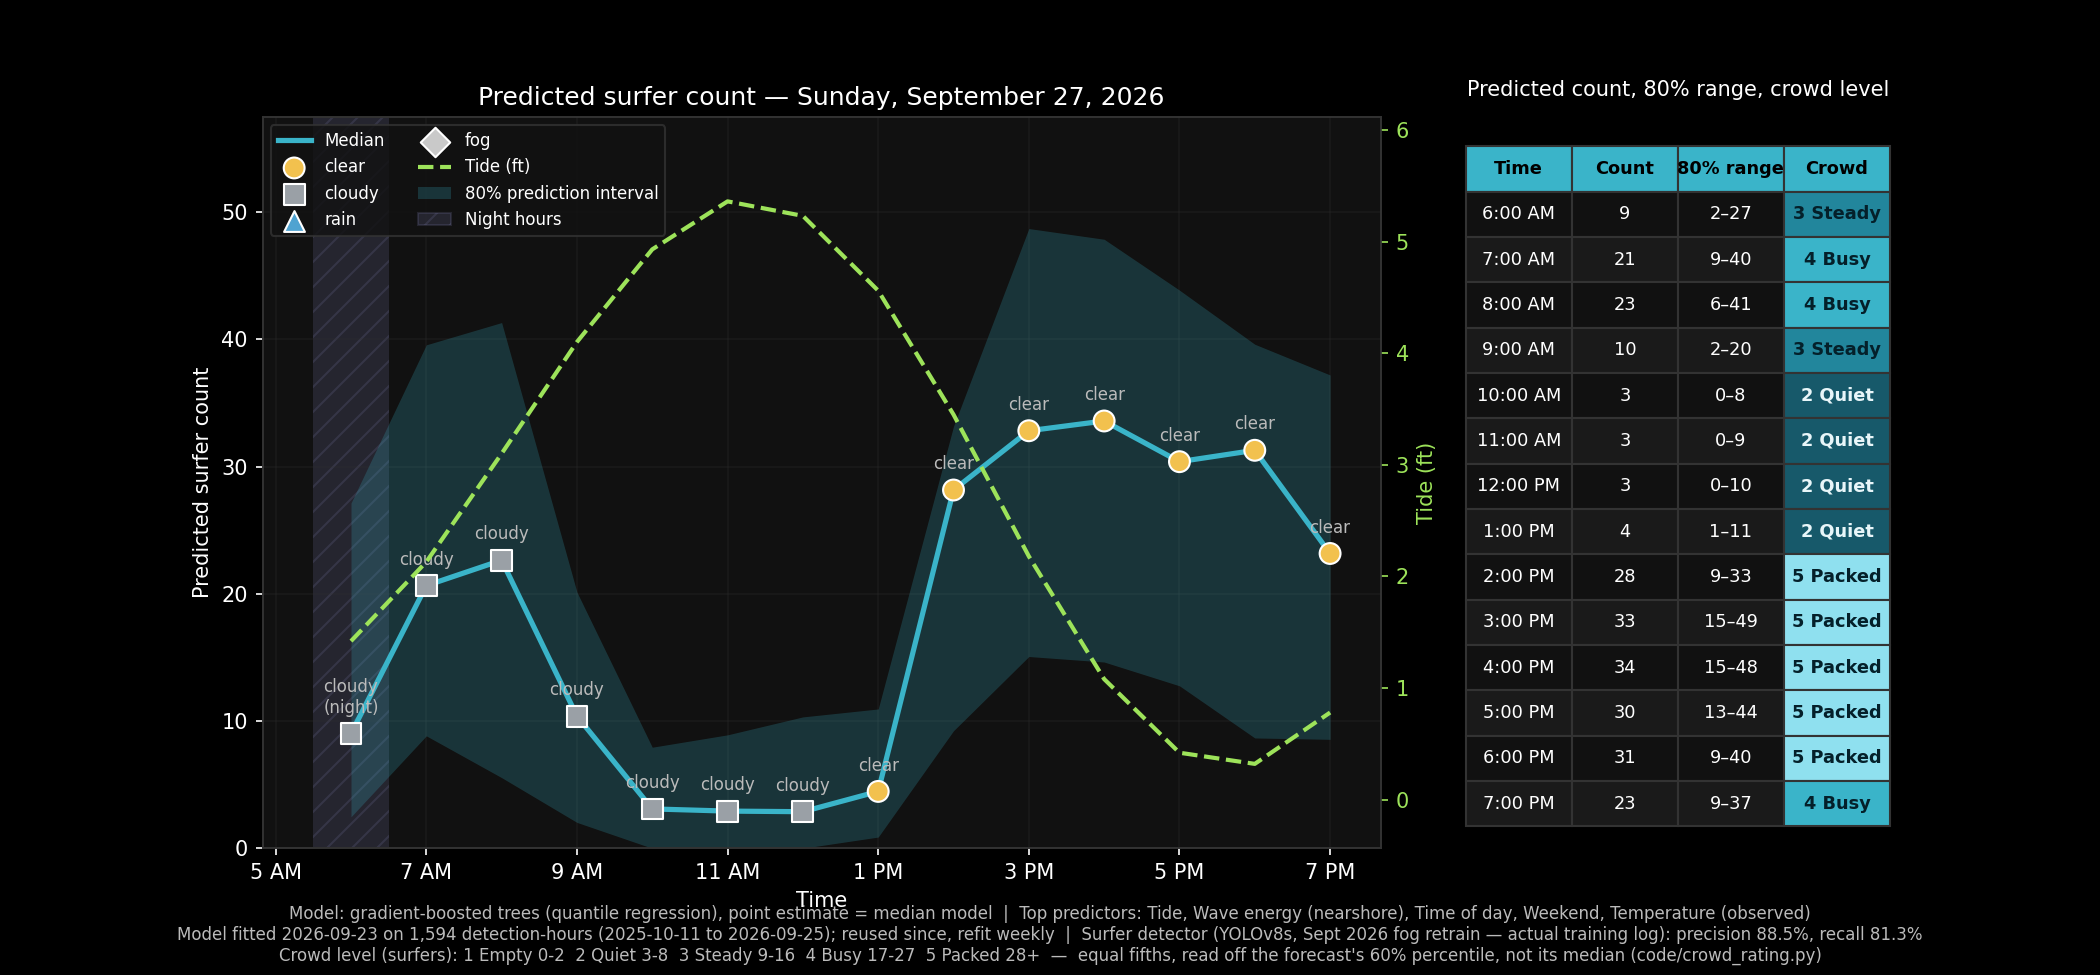
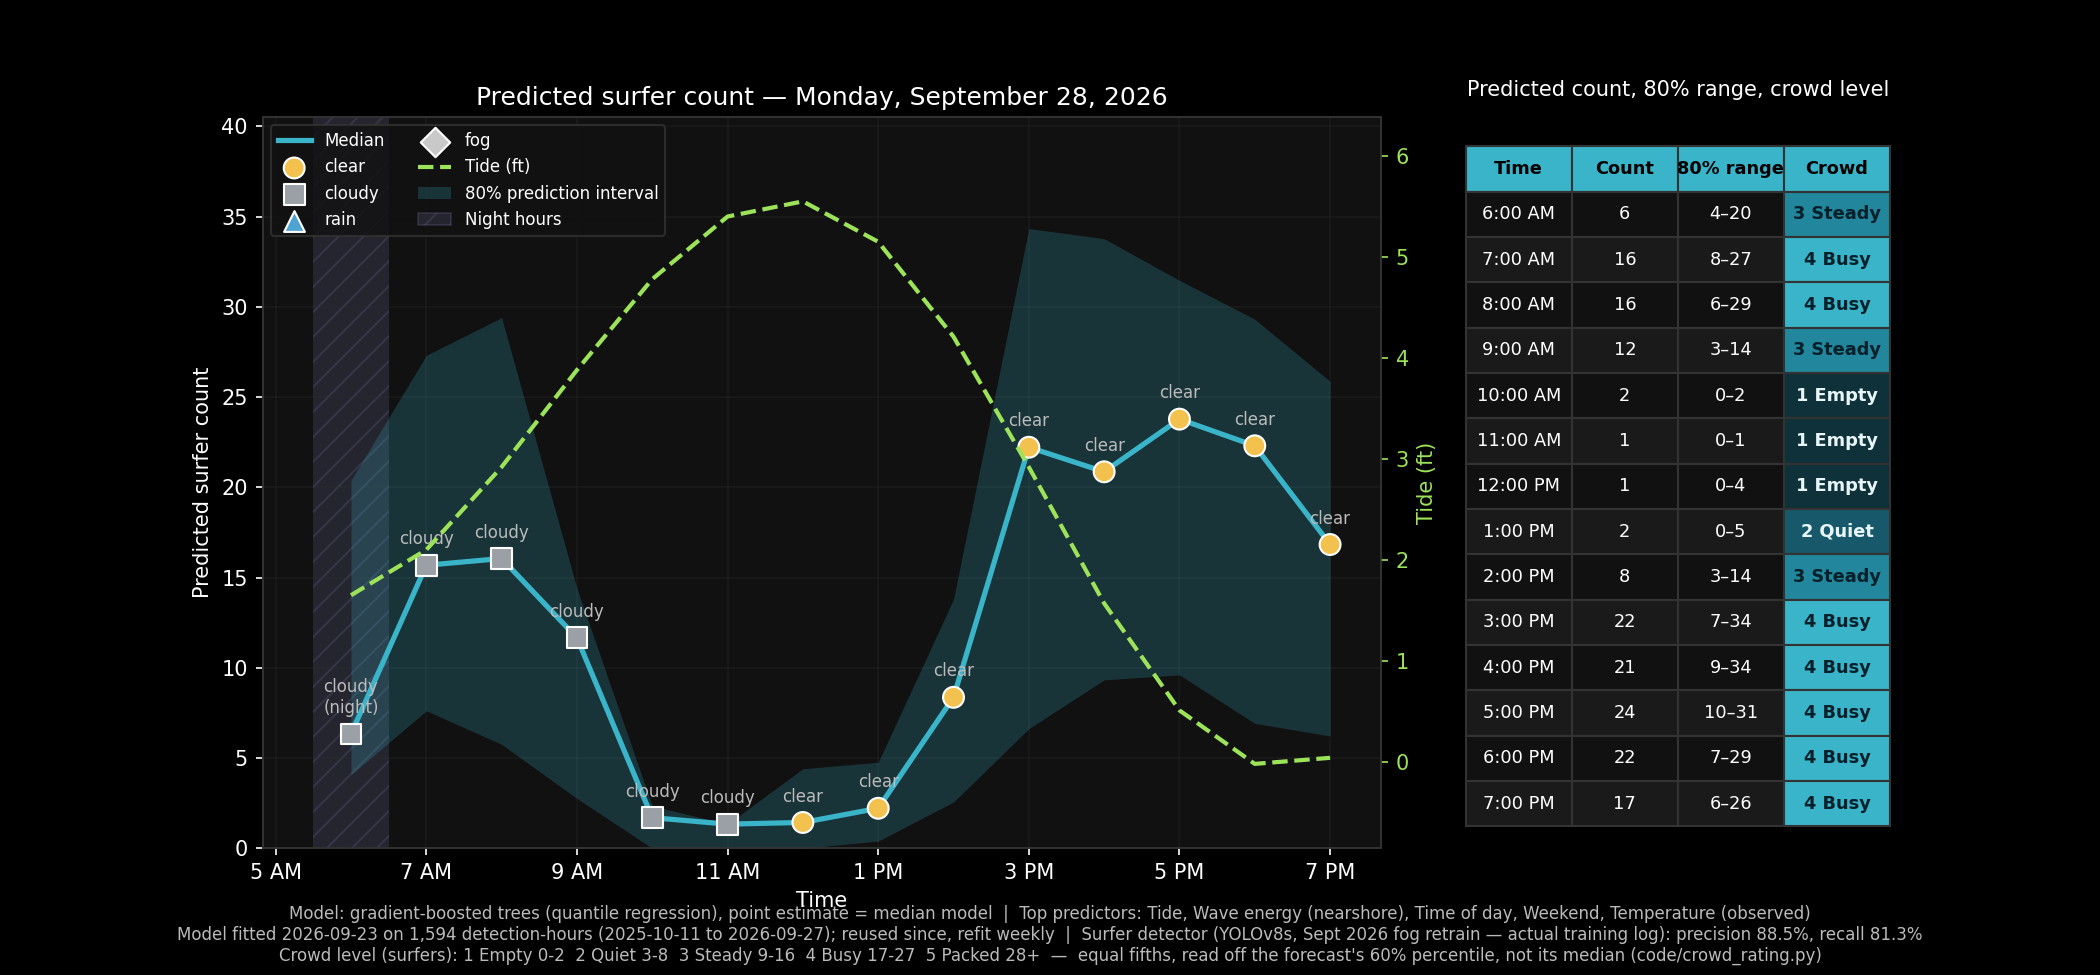
Automated: update daily surfer count chart (2026-09-27)

diff --git a/README.md b/README.md
@@ -24,17 +24,17 @@ This project collects images from a shoreline video camera and tries to answer t
      The headings and image links are assembled in update_readme() itself.
      ==================================================================== -->
 <!-- DAILY_CHART_START -->
-#### A Full Day of Surfer Detections: Saturday, September 26, 2026
+#### A Full Day of Surfer Detections: Sunday, September 27, 2026
 
 Each green box below contains a surfer, according to the object detection model.  Look carefully and you may find additional surfers that the model missed or other objects which are misclassified as surfers - like the wind sock at the bottom center of the photo.  Birds, reflections, people on the beach and sun glare fool it too: [what isn't a surfer](docs/non_surfer_objects.md) catalogs each one, how to tell it apart, and what the pipeline does about it.  **Each hour is shown twice: first the bare frame, so you can hunt for the surfers yourself as small dark specks, then the same frame with the model's boxes drawn.**  Try it before the boxes appear - it shows how hard these are to see, which is the whole problem the model is solving.  Each frame shows the camera's full width, the same strip the pipeline counts, so the number printed is the whole count for that hour.
-![Detections through Saturday, September 26, 2026](data/charts/latest_detection.gif)
+![Detections through Sunday, September 27, 2026](data/charts/latest_detection.gif)
 
-#### The Surfer Crowd Forecast for: Sunday, September 27, 2026
+#### The Surfer Crowd Forecast for: Monday, September 28, 2026
 
 Once enough hours and days were gathered along with weather and surf conditions, a surf count prediction model was built to forecast how many surfers would be present at each hour for the coming day.  This is useful for surfers to plan to avoid busy times or at least know what to expect.  The forecast still runs about one surfer low on average, and it misses by about five surfers in a typical hour - crowds depend on plenty of things the weather and surf data never see.  The detector underneath it used to undercount badly in fog and glare, which made the forecast worse; that was fixed in September 2026 by labeling those conditions and retraining, so what remains is the prediction model's own error.  The right-hand column rates each hour from 1 (near-empty) to 5 (packed), using the five equal slices of every hour the camera has counted so far.  [How to Read This Chart](#how-to-read-the-daily-chart)
 ![Latest daily prediction chart](data/charts/latest.png)
 
-#### The Week Ahead: September 27 - October 03, 2026
+#### The Week Ahead: September 28 - October 04, 2026
 
 The same model, run out to a week. Every hour gets a crowd level from 1 (near-empty) to 5 (packed); the levels are the five equal slices of every hour the camera has counted so far, so level 3 is literally an average hour and level 5 is the busiest fifth of them. The number in each cell is the predicted count, and the colour is the level. The level is not read off that number: the forecast pulls toward the middle, so the middle of its range under-calls busy hours, and the level comes from a point higher up the range that was measured to catch them. Surf and weather data run the full seven days, but a forecast seven days out is still a forecast seven days out - read the far right of the grid as a shape, not a number.
 ![Crowd outlook for the week ahead](data/charts/latest_week.png)
